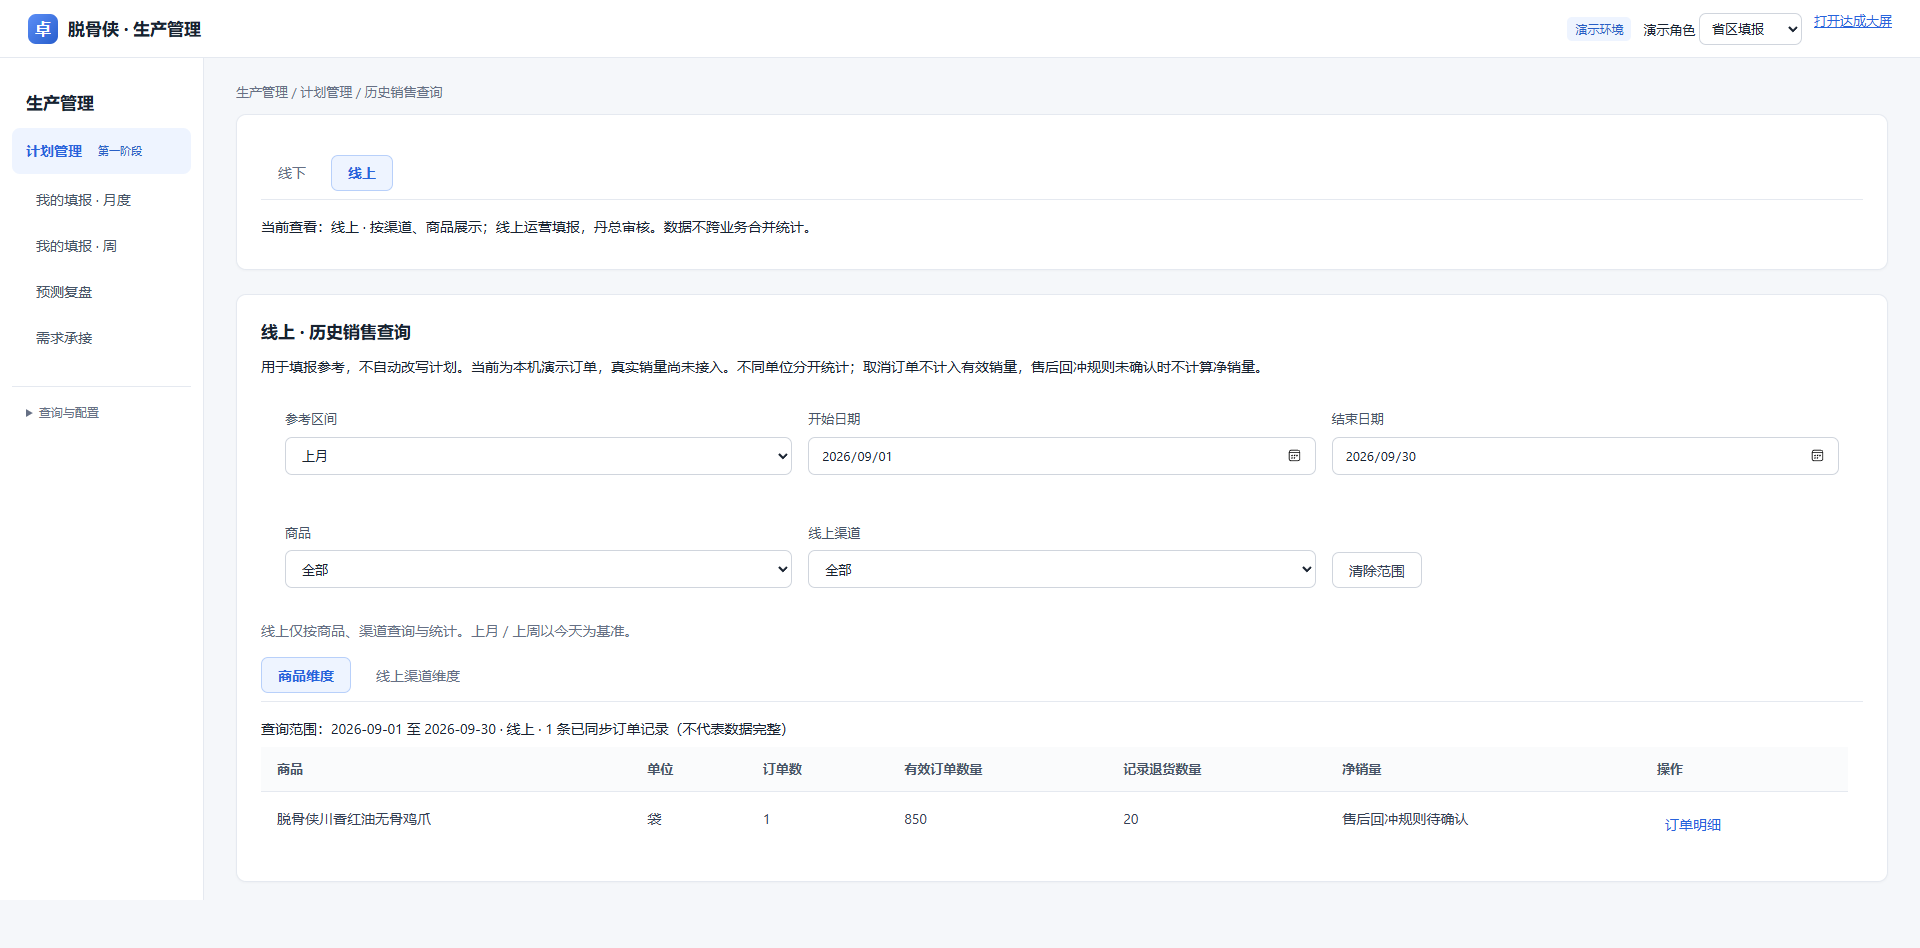
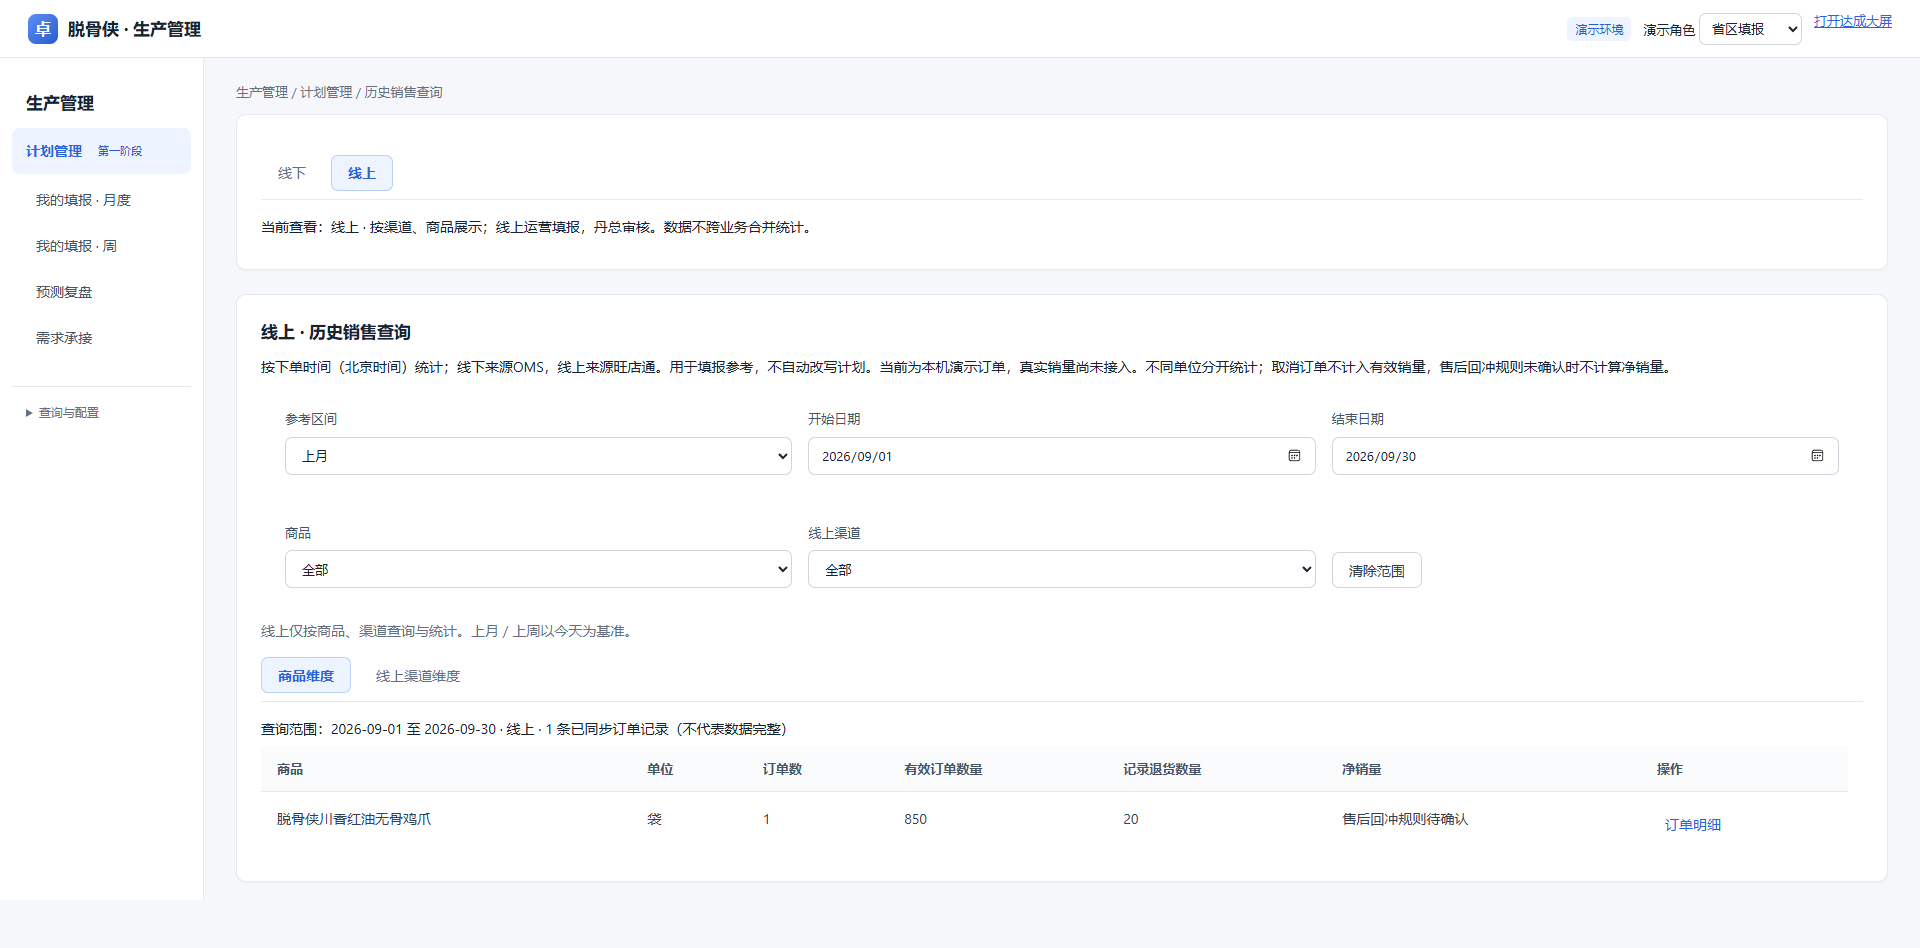
Auto sync 2026-10-12 17:02:23

Changed region(s): [[0.125, 0.3671, 0.875, 0.3977]]

diff --git a/09-设计与原型/销售计划管理/全流程状态演示.js b/09-设计与原型/销售计划管理/全流程状态演示.js
@@ -1,7 +1,7 @@
 (function(root){
  'use strict';
  const PREFIX='SCENE-',stamp='2026-10-10T09:00:00+08:00';
- function add(d){for(const p of d.plans.filter(p=>p.id.startsWith(PREFIX)&&p.business==='offline'))if(p.customer&&!SalesPlan.customers.some(c=>c.name===p.customer))SalesPlan.customers.push({name:p.customer,province:p.province,demo:true});for(const name of ['演示无需求客户','演示未填报客户'])if(!SalesPlan.customers.some(c=>c.name===name))SalesPlan.customers.push({name,province:'上海',demo:true});if(d.workflowScenarioVersion===1)return false;d.acceptances??={};d.acceptanceHistory??=[];d.fulfillment??=[];d.recapReasons??={};d.noDemand??=[];d.notifications??=[];d.demoScenarios??=[];
+ function add(d){let migrated=false;for(const o of d.orders||[])if(o.demo&&o.id.startsWith(PREFIX)&&o.source==='纯演示销量'){o.source=o.business==='online'?'旺店通':'OMS';o.platform=o.source;migrated=true;}for(const p of d.plans.filter(p=>p.id.startsWith(PREFIX)&&p.business==='offline'))if(p.customer&&!SalesPlan.customers.some(c=>c.name===p.customer))SalesPlan.customers.push({name:p.customer,province:p.province,demo:true});for(const name of ['演示无需求客户','演示未填报客户'])if(!SalesPlan.customers.some(c=>c.name===name))SalesPlan.customers.push({name,province:'上海',demo:true});if(d.workflowScenarioVersion===1)return migrated;d.acceptances??={};d.acceptanceHistory??=[];d.fulfillment??=[];d.recapReasons??={};d.noDemand??=[];d.notifications??=[];d.demoScenarios??=[];
   const plans=d.plans,records=d.demoScenarios;
   function make(name,kind,business,stage,extra={}){const id=PREFIX+String(records.length+1).padStart(3,'0');const p={id,kind,business,center:business==='offline'?'休食中心':'',area:business==='offline'?'华东区域':'',province:business==='offline'?'上海':'',customer:business==='offline'?'永辉华东大区':'',channel:business==='online'?'天猫':'',product:'SKU001',start:kind==='month'?'2026-10-01':'2026-10-12',end:kind==='month'?'2026-10-31':'2026-10-18',qty:1000,unit:'袋',owner:business==='online'?'线上运营':'省区填报',stage,version:1,rejected:false,archived:false,demo:true,scenario:name,note:'纯演示：'+name,history:[],versions:[],...extra};p.history.push({at:'2026-09-30T09:00:00+08:00',action:stage<0?'保存草稿（演示）':'提交计划单（演示）',by:p.owner,qty:p.qty});SalesPlan.chain(p).slice(0,Math.max(0,stage)).forEach(by=>p.history.push({at:'2026-09-30T10:00:00+08:00',by,action:'审核通过（演示）',opinion:'演示：已核对来源与需求依据',qty:p.qty}));if(p.rejected)p.history.push({at:stamp,by:SalesPlan.chain(p)[p.stage],action:'审核驳回（演示）',opinion:'演示：请修改本条商品数量并补充促销依据',qty:p.qty});p.versions.push({version:1,qty:p.qty,reason:'原始演示预测'});plans.push(p);const role=p.rejected||stage<0?p.owner:SalesPlan.chain(p)[stage]||'计划部门';records.push({id,name,kind,business,role,view:stage<0||p.rejected?'plans':stage<SalesPlan.chain(p).length?'review':'acceptance',demo:true});return p;}
   for(const kind of ['month','week'])for(const business of ['offline','online']){const route=business==='online'?['丹总']:['大区审核','中心审核','严总'];make('草稿',kind,business,-1);route.forEach((role,i)=>{make('待'+role,kind,business,i);make(role+'驳回待修改',kind,business,i,{rejected:true});});make('销售已确认待承接',kind,business,route.length);for(const [i,status]of ['待销售确认','退回计划部门重评','销售已确认承诺','已冻结执行','部分交付','交付完成','版本变化待重评'].entries()){const p=make(status,kind,business,route.length,{product:'SKU00'+(i%5+1),qty:1200+i*100});const r={version:1,qty:p.qty-200,date:p.end,reason:'演示：已核对物料、库存、在制与产能；存在200袋缺口',status:['部分交付','交付完成'].includes(status)?'已冻结执行':status==='版本变化待重评'?'待销售确认':status,at:stamp,demo:true};d.acceptances[p.id]=r;p.history.push({at:stamp,by:'计划部门',action:'承接承诺'+r.status+'（演示）',opinion:r.reason,qty:r.qty});if(['已冻结执行','部分交付','交付完成'].includes(status)){p.productionLocked=true;p.history.push({at:stamp,by:p.owner,action:'销售确认承诺（演示）',opinion:'演示：确认交期及缺口'});}if(['部分交付','交付完成'].includes(status)){const qty=status==='交付完成'?r.qty:Math.floor(r.qty/2);d.fulfillment.push({plan:p.id,version:1,qty,date:'2026-10-10',note:'纯演示交付凭据，不对应真实发货',by:'计划部门',at:stamp,demo:true});p.history.push({at:stamp,by:'计划部门',action:'登记实际交付（演示）',opinion:'演示凭据',qty});}if(status==='版本变化待重评'){p.version=2;p.qty+=100;p.versions.push({version:2,qty:p.qty,reason:'演示：销售数量调整后承诺失效'});}Object.assign(records.at(-1),{role:status==='待销售确认'?p.owner:'计划部门'});}}

diff --git a/09-设计与原型/销售计划管理/销售实际达成统计口径.md b/09-设计与原型/销售计划管理/销售实际达成统计口径.md
@@ -1,0 +1,9 @@
+# 已确认实际达成口径
+
+线下来源OMS订单；线上来源旺店通接口订单。按下单时间归属自然月或周区间，统一北京时间（Asia/Shanghai），不按付款、发货、同步时间统计。
+
+标准字段为 `orderedAt`（下单时间）与 `platform` / `source`（OMS或旺店通）。旧原型演示日期仅在已知样例中兼容；真实记录缺少下单时间不计入。平台错误、周期或业务维度不匹配不能通过人工关联强行计入。
+
+月度、周度分别匹配同一批订单，不跨类型相加。取消不计入，退款退货仍按售后回冲配置。实际达成基于当前已批准销售预测；人工生产交付记录不替代销量。无匹配记录显示待确认，不当作零。
+
+历史查询、填报参考、审核销售参考、月周复盘与达成分析共用下单时间及平台筛选。真实接口尚未接入，此次仅实现原型统计逻辑。
